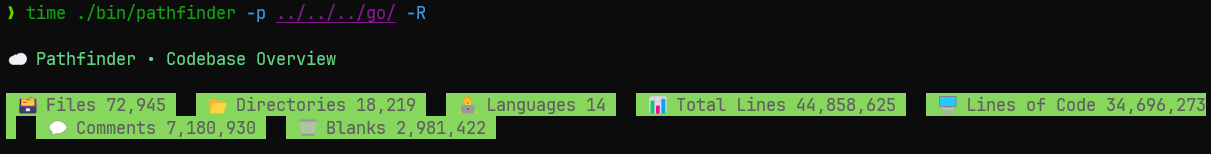
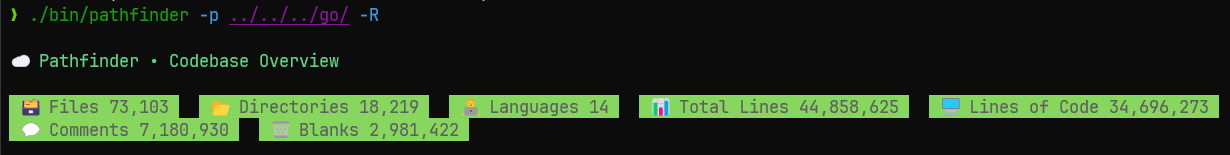
refactor file counting logic for idiomatic go + added comments

Changed region(s): [[0.0, 0.5974, 1.0, 0.9091], [0.0, 0.026, 0.3666, 0.1818], [0.0, 0.3377, 0.275, 0.4416]]

diff --git a/internal/metrics/analyzer.go b/internal/metrics/analyzer.go
@@ -9,11 +9,6 @@ import (
 	"sync"
 )
 
-var (
-	wg sync.WaitGroup
-	mu sync.Mutex
-)
-
 func Analyze(flags Flags) (CodebaseReport, error) {
 	if flags.PathFlag == "" { // won't ever happen since default is "." set by cobra
 		return CodebaseReport{}, errors.New("path is required")
@@ -24,8 +19,11 @@ func Analyze(flags Flags) (CodebaseReport, error) {
 
 	var codebaseStats CodebaseMetrics
 	var annotationStats AnnotationMetrics
-
 	topFilesList := make([]FileMetricsReport, 0)
+
+	// Local variables for synchronization
+	var wg sync.WaitGroup
+	var mu sync.Mutex
 
 	err := filepath.WalkDir(flags.PathFlag, func(path string, d fs.DirEntry, err error) error {
 		if err != nil {
@@ -60,7 +58,6 @@ func Analyze(flags Flags) (CodebaseReport, error) {
 			if d.IsDir() {
 				return fs.SkipDir
 			}
-
 			return nil
 		}
 
@@ -72,7 +69,6 @@ func Analyze(flags Flags) (CodebaseReport, error) {
 			mu.Lock()
 			codebaseStats.TotalDirs++
 			mu.Unlock()
-
 			return nil
 		}
 
@@ -94,55 +90,55 @@ func Analyze(flags Flags) (CodebaseReport, error) {
 		go func(filePath string, langDef *LanguageDefinition, bufferSize int) {
 			defer wg.Done()
 
-			code, comments, blanks, ann := CountFile(filePath, bufferSize, langDef.Type)
-			if code == 0 && comments == 0 && blanks == 0 {
+			fileMetrics, annMetrics, err := FileCounter(filePath, bufferSize, langDef)
+			if err != nil {
 				return
 			}
 
 			mu.Lock()
 			defer mu.Unlock()
 
-			annotationStats.TotalTODO += ann.TotalTODO
-			annotationStats.TotalFIXME += ann.TotalFIXME
-			annotationStats.TotalHACK += ann.TotalHACK
-			annotationStats.TotalAnnotations += ann.TotalAnnotations
+			// aggregate codebase stats (this is generic stats for the entire codebase)
+			// the difference between codebaseStats and langStatsMap is that codebaseStats is for the entire codebase
+			// while langStatsMap is per language
+			// so codebaseStats.TotalFiles is the total number of files in the entire code
+			// while langStatsMap[fileMetrics.Language].Files is the total number of files for that specific language
+			codebaseStats.TotalFiles += fileMetrics.Files
+			codebaseStats.TotalCode += fileMetrics.Code
+			codebaseStats.TotalComments += fileMetrics.Comments
+			codebaseStats.TotalBlanks += fileMetrics.Blanks
 
-			codebaseStats.TotalFiles++
-			codebaseStats.TotalCode += code
-			codebaseStats.TotalComments += comments
-			codebaseStats.TotalBlanks += blanks
+			// aggregate annotation metrics (this is for the entire codebase)
+			annotationStats.TotalTODO += annMetrics.TotalTODO
+			annotationStats.TotalFIXME += annMetrics.TotalFIXME
+			annotationStats.TotalHACK += annMetrics.TotalHACK
+			annotationStats.TotalAnnotations += annMetrics.TotalAnnotations
 
-			stats := langStatsMap[langDef.Name]
-			if stats == nil {
-				stats = &LanguageMetrics{}
-				langStatsMap[langDef.Name] = stats
-			}
-
-			stats.Files++
-			stats.Language = langDef.Name
-			stats.Code += code
-			stats.Comments += comments
-			stats.Blanks += blanks
-			stats.Lines += code + comments + blanks
-
+			// aggregate directory stats (this is for the entire codebase)
 			relativePath, _ := filepath.Rel(flags.PathFlag, filePath)
 			topDir := TopLevelDir(relativePath)
-			dirStatsMap[topDir] += code + comments + blanks
+			dirStatsMap[topDir] += fileMetrics.Lines
 
-			fileLangMetrics := LanguageMetrics{
-				Language: langDef.Name,
-				Code:     code,
-				Comments: comments,
-				Blanks:   blanks,
-				Lines:    code + comments + blanks,
+			// this key sorta matters because we want to group by the language being used, but it won't be used in the final report
+			stats := langStatsMap[fileMetrics.Language]
+			if stats == nil {
+				stats = &LanguageMetrics{}
+				langStatsMap[fileMetrics.Language] = stats
 			}
 
+			stats.Language = fileMetrics.Language // we write fileMetrics.Language here because this is what's actually being used (not the map key)
+			stats.Files += fileMetrics.Files      // always being incremented by 1
+			stats.Code += fileMetrics.Code
+			stats.Comments += fileMetrics.Comments
+			stats.Blanks += fileMetrics.Blanks
+			stats.Lines += fileMetrics.Lines
+
+			// append the file metrics to the top files list
+			// we'll sort and pick the top 10 later in the final report
 			topFilesList = append(topFilesList, FileMetricsReport{
-				Metrics: fileLangMetrics,
+				Metrics: fileMetrics,
 				Path:    relativePath,
 			})
-
-			return
 		}(path, langDefinition, flags.BufferSizeFlag)
 
 		return nil
@@ -154,8 +150,12 @@ func Analyze(flags Flags) (CodebaseReport, error) {
 
 	wg.Wait()
 
+	// this is done after the walk is complete and all goroutines have finished
+	// because we need the final aggregated stats to calculate percentages
+	// it doesn't make sense to calculate percentages while we're still walking the directory
 	codebaseStats.TotalLines = codebaseStats.TotalCode + codebaseStats.TotalComments + codebaseStats.TotalBlanks
 
+	// prepare language stats for the final report
 	languageStats := make([]LanguageMetricsReport, 0, len(langStatsMap))
 	for _, stats := range langStatsMap {
 		languageStats = append(languageStats, LanguageMetricsReport{
@@ -164,6 +164,7 @@ func Analyze(flags Flags) (CodebaseReport, error) {
 		})
 	}
 
+	// prepare directory stats for the final report
 	dirStats := make([]DirMetricsReport, 0, len(dirStatsMap))
 	for dir, stat := range dirStatsMap {
 		dirStats = append(dirStats, DirMetricsReport{
@@ -173,8 +174,10 @@ func Analyze(flags Flags) (CodebaseReport, error) {
 		})
 	}
 
+	// total languages is simply the length of the language stats map
 	codebaseStats.TotalLanguages = len(languageStats)
 
+	// sort the lists for better presentation in the final report
 	sort.Slice(topFilesList, func(i, j int) bool {
 		return topFilesList[i].Metrics.Lines > topFilesList[j].Metrics.Lines
 	})
@@ -186,7 +189,7 @@ func Analyze(flags Flags) (CodebaseReport, error) {
 	sort.Slice(dirStats, func(i, j int) bool {
 		return dirStats[i].Percentage > dirStats[j].Percentage
 	})
-
+	
 	return CodebaseReport{
 		LanguageMetrics:   languageStats,
 		FileMetrics:       topFilesList,

diff --git a/internal/metrics/counter.go b/internal/metrics/counter.go
@@ -7,29 +7,27 @@ import (
 	"os"
 )
 
-func CountFile(path string, bufferSize int, commentType CommentType) (
-	code int,
-	comments int,
-	blanks int,
-	ann AnnotationMetrics,
-) {
+func FileCounter(path string, bufferSize int, langDef *LanguageDefinition) (LanguageMetrics, AnnotationMetrics, error) {
 	f, err := os.Open(path)
 	if err != nil {
-		return
+		return LanguageMetrics{}, AnnotationMetrics{}, err
 	}
 	defer f.Close()
 
-	return scanLines(f, bufferSize, commentType)
+	langMetrics, annMetrics, err := countLinesInFile(f, bufferSize, langDef)
+	if err != nil {
+		return LanguageMetrics{}, AnnotationMetrics{}, err
+	}
+
+	return langMetrics, annMetrics, nil
 }
 
-func scanLines(r io.Reader, bufferSize int, commentType CommentType) (
-	code int,
-	comments int,
-	blanks int,
-	ann AnnotationMetrics,
-) {
+func countLinesInFile(r io.Reader, bufferSize int, langDef *LanguageDefinition) (LanguageMetrics, AnnotationMetrics, error) {
 	br := bufio.NewReaderSize(r, bufferSize)
 	inBlockComment := false
+
+	var langMetrics LanguageMetrics
+	var annMetrics AnnotationMetrics
 
 	for {
 		line, err := br.ReadBytes('\n')
@@ -40,42 +38,42 @@ func scanLines(r io.Reader, bufferSize int, commentType CommentType) (
 		line = bytes.TrimSpace(line)
 
 		if len(line) == 0 {
-			blanks++
-		} else if len(commentType.SingleLine) > 0 && bytes.HasPrefix(line, []byte(commentType.SingleLine)) {
-			comments++
-			checkAnnotationsBytes(line, &ann)
-		} else if len(commentType.BlockStart) > 0 && bytes.Contains(line, []byte(commentType.BlockStart)) {
-			i := bytes.Index(line, []byte(commentType.BlockStart))
+			langMetrics.Blanks++
+		} else if len(langDef.Type.SingleLine) > 0 && bytes.HasPrefix(line, []byte(langDef.Type.SingleLine)) {
+			langMetrics.Comments++
+			checkAnnotationsBytes(line, &annMetrics)
+		} else if len(langDef.Type.BlockStart) > 0 && bytes.Contains(line, []byte(langDef.Type.BlockStart)) {
+			i := bytes.Index(line, []byte(langDef.Type.BlockStart))
 			before := bytes.TrimSpace(line[:i])
-			after := line[i+len(commentType.BlockStart):]
+			after := line[i+len(langDef.Type.BlockStart):]
 
-			if len(commentType.BlockEnd) > 0 && bytes.Contains(after, []byte(commentType.BlockEnd)) {
-				j := bytes.Index(after, []byte(commentType.BlockEnd))
+			if len(langDef.Type.BlockEnd) > 0 && bytes.Contains(after, []byte(langDef.Type.BlockEnd)) {
+				j := bytes.Index(after, []byte(langDef.Type.BlockEnd))
 				left := before
-				right := bytes.TrimSpace(after[j+len(commentType.BlockEnd):])
+				right := bytes.TrimSpace(after[j+len(langDef.Type.BlockEnd):])
 
 				if len(left) > 0 || len(right) > 0 {
-					code++
+					langMetrics.Code++
 				} else {
-					comments++
+					langMetrics.Comments++
 				}
 			} else {
 				if len(before) > 0 {
-					code++
+					langMetrics.Code++
 				} else {
-					comments++
+					langMetrics.Comments++
 				}
 				inBlockComment = true
 			}
 
-			checkAnnotationsBytes(line, &ann)
+			checkAnnotationsBytes(line, &annMetrics)
 		} else if inBlockComment {
-			comments++
-			if len(commentType.BlockEnd) > 0 && bytes.Contains(line, []byte(commentType.BlockEnd)) {
+			langMetrics.Comments++
+			if len(langDef.Type.BlockEnd) > 0 && bytes.Contains(line, []byte(langDef.Type.BlockEnd)) {
 				inBlockComment = false
 			}
 		} else {
-			code++
+			langMetrics.Code++
 		}
 
 		if err == io.EOF {
@@ -83,7 +81,16 @@ func scanLines(r io.Reader, bufferSize int, commentType CommentType) (
 		}
 	}
 
-	return
+	langMetrics.Language = langDef.Name
+	langMetrics.Files = 1
+	langMetrics.Lines = langMetrics.Code + langMetrics.Comments + langMetrics.Blanks
+
+	/* example output
+	langMetrics = LanguageMetrics{ Language: "Go", Files: 1, Code: 100, Comments: 20, Blanks: 10, Lines: 130 }
+	annMetrics = AnnotationMetrics{ TotalTODO: 5, TotalFIXME: 2, TotalHACK: 1, TotalAnnotations: 8 }
+	error = nil
+	*/
+	return langMetrics, annMetrics, nil
 }
 
 func checkAnnotationsBytes(line []byte, ann *AnnotationMetrics) {

diff --git a/cmd/root.go b/cmd/root.go
@@ -11,6 +11,7 @@ import (
 )
 
 var (
+	debugFlag      bool
 	pathFlag       string
 	hiddenFlag     bool
 	bufferSizeFlag int
@@ -54,7 +55,12 @@ Examples:
 			return err
 		}
 
-		ui.PrintReport(report)
+		if debugFlag { // print raw report for debugging (this is just printing the struct, not really "debugging")
+			fmt.Printf("Debug: %+v\n", report)
+		} else {
+			ui.PrintReport(report)
+		}
+
 		return nil
 	},
 }
@@ -67,6 +73,7 @@ func Execute() {
 }
 
 func init() {
+	rootCmd.Flags().BoolVarP(&debugFlag, "debug", "d", false, "Enable debug mode")
 	rootCmd.Flags().StringVarP(&pathFlag, "path", "p", ".", "Path to codebase/repository")
 	rootCmd.Flags().BoolVarP(&hiddenFlag, "hidden", "i", false, "Include hidden files and directories")
 	rootCmd.Flags().IntVarP(&bufferSizeFlag, "buffer-size", "b", 4, "Buffer size for reading files in KB. Options are 4, 8, 16, 32, 64")

diff --git a/README.md b/README.md
@@ -3,19 +3,21 @@ Blazingly fast, lightweight CLI to map & track your codebase.
 
 ### Examples
 
-Below I ran `pathfinder` on this codebase with the `-R` flag to recursively scan all subdirectories.  
-![img.png](images/example1.png)
+Below I ran `pathfinder` on this codebase with the `-R` flag to recursively scan all subdirectories. Image was taken at 2025-08-30 3:08 PM EST.
+![example1.png](images/example1.png)
 
-Then I ran the same command, but instead on my installed Go libraries and packages in WSL to benchmark performance:
-![img.png](images/example2.png)
+Then I ran the same command, but instead on my installed Go libraries and packages in WSL to benchmark performance.  Image was taken at 2025-08-30 3:08 PM EST.
+![example2.png](images/example2.png)
 
-You can see that it found **72,945** files, **18,219** directories, and **44,858,625** total lines.
+You can see that it found **73,103** files, **18,219** directories, and **44,858,625** total lines.
 
 ```bash
-# time output
-./bin/pathfinder -p ../../../go/ -R  6.18s user 7.88s system 279% cpu 5.028 total
+> time ./bin/pathfinder ../../../go/ -R
+
+# time output (as of 2025-08-30 3:08 PM EST)
+./bin/pathfinder -p ../../../go/ -R  5.88s user 8.15s system 281% cpu 4.995 total
 ``` 
-This only took 5.028 seconds (on my machine), utilizing 279% of the CPU. 
+This only took 4.995 seconds (on my machine), utilizing 281% of the CPU. 
 This is because `pathfinder` uses goroutines for concurrent file reading and processing.
 
 I then ran it again on the same directory:
@@ -24,9 +26,9 @@ I then ran it again on the same directory:
 
 ...
 
-# time output
-./bin/pathfinder -p ../../../go/ -R  5.08s user 3.51s system 665% cpu 1.292 total
+# time output (as of 2025-08-30 3:08 PM EST)
+./bin/pathfinder -p ../../../go/ -R  4.69s user 2.97s system 686% cpu 1.117 total
 ```
-This time it took only 1.292 seconds to run, utilizing 665% of the CPU.
+This time it took only 1.117 seconds to run, utilizing 665% of the CPU.
 The second run is much faster because the OS caches file data in memory, 
 reducing I/O overhead and allowing goroutines to utilize more cores efficiently.
